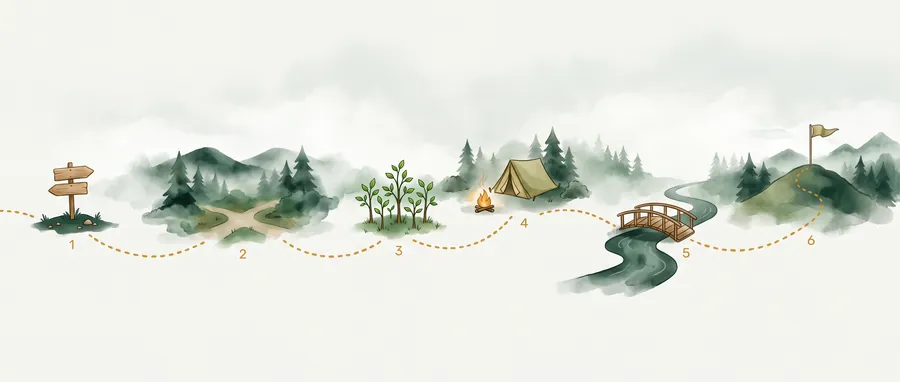
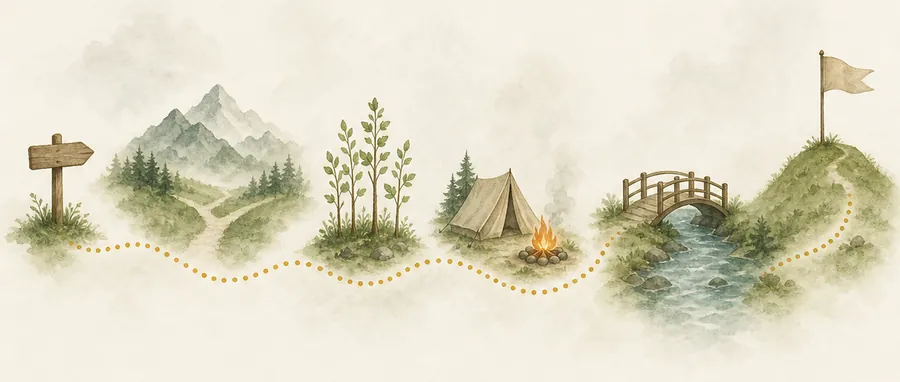
Phase 0: regenerate journey-map illustration without baked-in numerals
The generated artwork had leftover amber 1-6 numerals along the trail (faint on
desktop, visible on mobile), redundant with the HTML stop badges. In-place raster
removal was unreliable (glyphs tangled with the amber bridge/signpost). Instead
regenerated a clean watercolor scene (six landmarks in order: signpost, misty
mountains, saplings, campfire+tent, arched bridge, flag hill; amber dotted trail;
no text) and cropped to the 2.356:1 banner. Re-tuned JOURNEY_STOP_X to the new
landmark x-positions ([6,21,40,57,74,92]); verified dot-to-landmark alignment and
clean mobile render at 375px. webp q80: desktop 67KB, mobile 27KB.

Note: image URLs are unversioned in CSS; release cache-bust must refresh them so
returning visitors do not keep the old cached artwork.

diff --git a/app/static/js/app.js b/app/static/js/app.js
@@ -2521,7 +2521,7 @@ function buildRecLetterNeedRow({ item, kind, requirement }) {
    Milestones read independent sources so a stale/unrun session never lies. */
 
 // x-positions (percent) of the six landmarks in journey-map.webp, in order.
-const JOURNEY_STOP_X = [7, 26, 44, 57, 70, 92];
+const JOURNEY_STOP_X = [6, 21, 40, 57, 74, 92];
 
 function computeJourneyMapState() {
   const items = trackerItems || [];